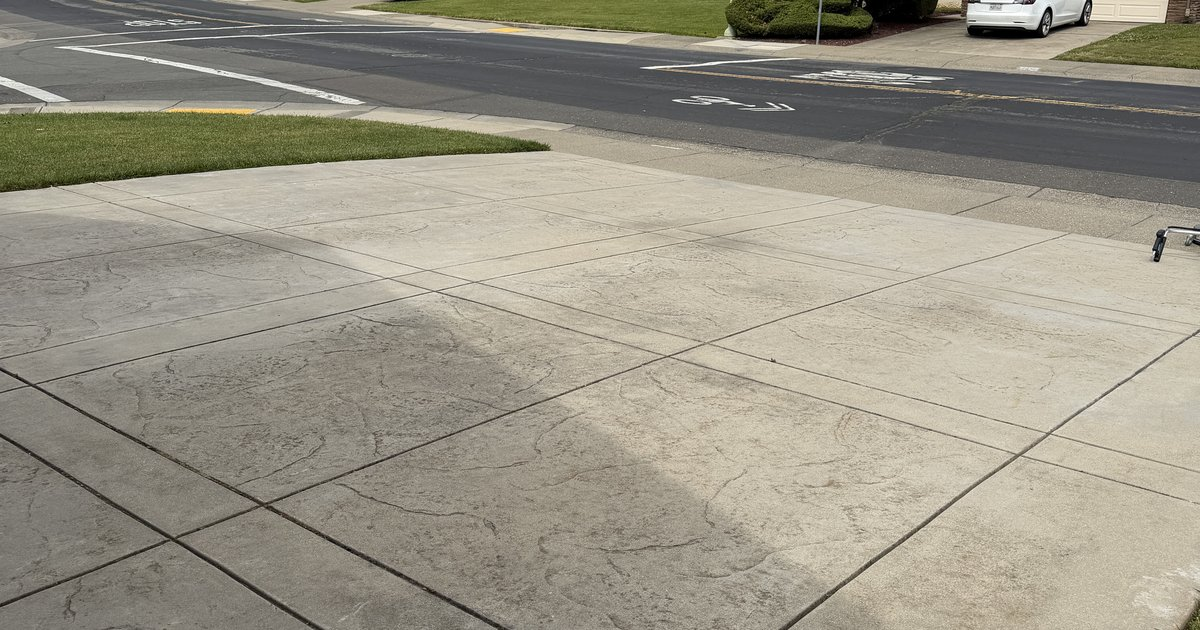
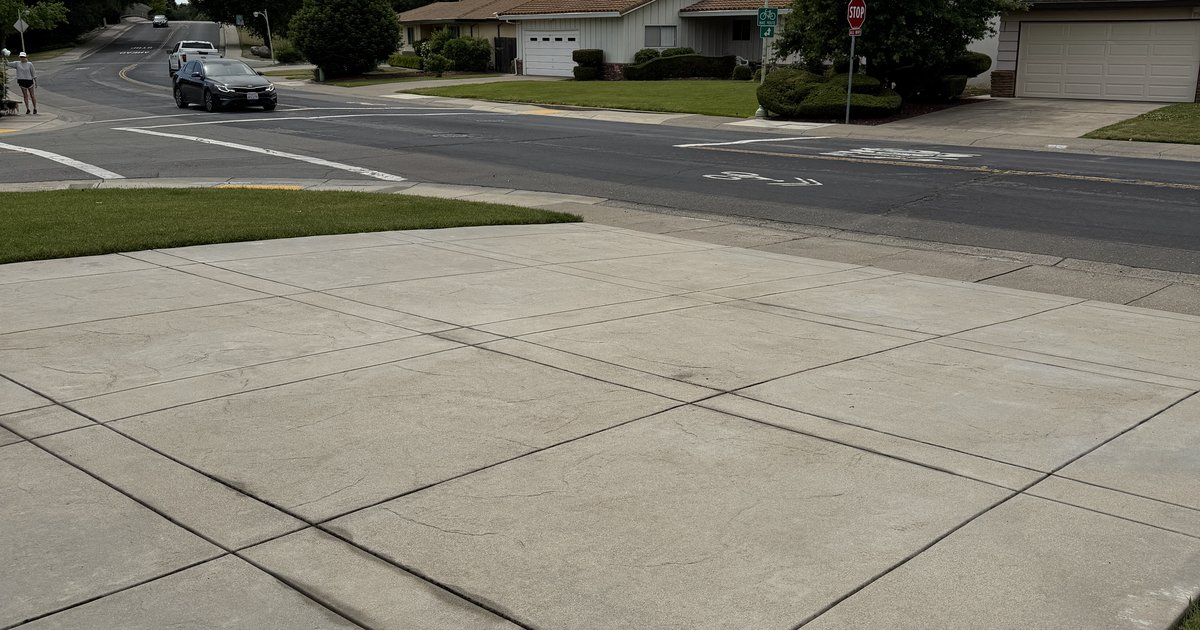
Add files via upload

diff --git a/index.html b/index.html
@@ -121,8 +121,18 @@
     .q-story-option input{accent-color:var(--teal);cursor:pointer}
     .q-story-rate{display:none}
     .hero{position:relative;min-height:100vh;display:flex;align-items:flex-end;overflow:hidden}
-    .hero-bg{position:absolute;inset:0;background:url("images/hero-driveway-clean.jpg") center center/cover no-repeat}
-    .hero-bg::after{content:'';position:absolute;inset:0;background:linear-gradient(to right,rgba(1,24,58,0.93) 0%,rgba(1,24,58,0.72) 45%,rgba(1,24,58,0.2) 100%)}
+    .hero-bg{position:absolute;inset:0;display:flex}
+    .hero-bg-before,.hero-bg-after{flex:1;background-size:cover;background-position:center;position:relative}
+    .hero-bg-before{background-image:url("images/hero-before.jpg")}
+    .hero-bg-after{background-image:url("images/hero-after.jpg")}
+    .hero-bg-before::after,.hero-bg-after::after{content:'';position:absolute;inset:0}
+    .hero-bg-before::after{background:linear-gradient(to right,rgba(1,24,58,0.85) 0%,rgba(1,24,58,0.55) 100%)}
+    .hero-bg-after::after{background:linear-gradient(to right,rgba(1,24,58,0.35) 0%,rgba(1,24,58,0.6) 100%)}
+    .hero-split-label{position:absolute;top:50%;transform:translateY(-50%);z-index:3;font-family:'Bebas Neue',sans-serif;font-size:1.15rem;letter-spacing:0.18em;padding:0.55rem 1.3rem;border-radius:30px;backdrop-filter:blur(8px)}
+    .hero-split-label.before{left:1.5rem;background:rgba(1,11,28,0.7);border:1.5px solid rgba(255,100,100,0.5);color:#ff8a8a}
+    .hero-split-label.after{right:1.5rem;background:rgba(20,182,178,0.25);border:1.5px solid rgba(20,182,178,0.6);color:var(--teal)}
+    .hero-split-divider{position:absolute;top:0;bottom:0;left:50%;width:3px;background:linear-gradient(to bottom,transparent 0%,rgba(20,182,178,0.6) 25%,rgba(20,182,178,0.9) 50%,rgba(20,182,178,0.6) 75%,transparent 100%);z-index:3;transform:translateX(-50%)}
+    @media(max-width:640px){.hero-split-label{font-size:0.78rem;padding:0.4rem 0.8rem;top:1.1rem;transform:none}.hero-split-label.before{left:1rem}.hero-split-label.after{right:1rem}}
     .hero-content{position:relative;z-index:2;padding:0 2.5rem 5.5rem;max-width:600px}
     .eyebrow{display:inline-block;font-size:0.73rem;font-weight:600;letter-spacing:0.22em;text-transform:uppercase;color:var(--teal);margin-bottom:0.9rem;border-left:3px solid var(--teal);padding-left:0.7rem}
     .hero h1{font-family:'Bebas Neue',sans-serif;font-size:clamp(4rem,9vw,7.5rem);line-height:0.92;letter-spacing:0.02em}
@@ -388,7 +398,14 @@
   <a href="#book" class="mobile-nav-link mobile-cta">Book Now</a>
 </div>
 
-<section class="hero"><div class="hero-bg"></div>
+<section class="hero">
+  <div class="hero-bg">
+    <div class="hero-bg-before"></div>
+    <div class="hero-bg-after"></div>
+  </div>
+  <div class="hero-split-divider"></div>
+  <span class="hero-split-label before">BEFORE</span>
+  <span class="hero-split-label after">AFTER</span>
   <div class="hero-content">
     <div class="eyebrow">Greater Sacramento Area</div>
     <h1>WE BLAST<br/><span class="blue">DIRT</span><br/><span class="teal">AWAY.</span></h1>
@@ -413,6 +430,38 @@
   <div class="stat-item reveal"><div class="stat-num">2 Pros</div><div class="stat-label">On Every Job</div></div>
 </div>
 
+<!-- REVIEWS -->
+<section class="reviews-section" id="reviews">
+  <div class="reviews-inner">
+    <div class="section-header reveal">
+      <div class="section-eyebrow">What Customers Say</div>
+      <h2 class="section-title">REAL <span class="hl">REVIEWS</span></h2>
+      <p style="margin-top:0.9rem;font-size:1rem;color:rgba(245,249,255,0.75)"><span style="color:#ffb648;letter-spacing:0.1em;font-size:1.1rem">★★★★★</span> &nbsp;<strong style="color:var(--teal)">5.0</strong> rating on Google · <strong>3 verified reviews</strong></p>
+    </div>
+    <div class="reviews-grid reveal">
+      <div class="review-card">
+        <div class="review-stars">★★★★★</div>
+        <p class="review-text">"Had these guys come out to my duplex last Sunday — completed the whole driveway, side yard, and RV access. Great work, driveway is so bright and clean it looks like the concrete just got poured. Thank you for the good work, looking forward to working with you in the future."</p>
+        <div class="review-author">Jonathan Jackson</div>
+        <div class="review-meta">Driveway, Side Yard &amp; RV Access · ★★★★★</div>
+      </div>
+      <div class="review-card">
+        <div class="review-stars">★★★★★</div>
+        <p class="review-text">"Excellent crew to work with — had my job done in half the time that was expected. 10 out of 10 would recommend."</p>
+        <div class="review-author">James Pallas</div>
+        <div class="review-meta">Pressure Washing · ★★★★★</div>
+      </div>
+      <div class="review-card">
+        <div class="review-stars">★★★★★</div>
+        <p class="review-text">"Amazing service and even better ownership. These guys running this business are stand-up professionals that see the job through from start to finish. Top notch service with great attention to detail. Definitely recommend Pressure Pals to anyone!"</p>
+        <div class="review-author">Cory Howell</div>
+        <div class="review-meta">Pressure Washing · ★★★★★</div>
+      </div>
+    </div>
+    <p class="reviews-cta">Rated <strong style="color:var(--teal)">5.0 ★</strong> on Google · <a href="https://g.page/r/CTuQGgcxalxCEAE" target="_blank">Read all reviews</a> or <a href="https://g.page/r/CTuQGgcxalxCEAE/review" target="_blank">leave your own</a>.</p>
+  </div>
+</section>
+
 <section id="services">
   <div class="section-header reveal"><div class="section-eyebrow">What We Clean</div><h2 class="section-title">OUR <span class="hl">SERVICES</span></h2></div>
   <div class="services-grid">
@@ -424,65 +473,6 @@
     <div class="svc-card reveal"><img loading="lazy" class="svc-img" src="images/service-gutter.jpg" alt="Gutter cleaning"/><div class="svc-body"><div class="svc-name">Gutters</div><div class="svc-price">From <strong>$1.50</strong>/linear ft</div><p class="svc-desc">Exterior gutter brightening — remove streaks and oxidation for a like-new finish.</p></div></div>
   </div>
   <p class="services-note reveal">$100 minimum · 10% off when you book 3+ services · First-time customers get cheapest service free · <a href="#quote" style="color:var(--teal);text-decoration:none;border-bottom:1px solid rgba(20,182,178,0.4)">Get your instant estimate</a></p>
-</section>
-
-<section class="ba-section" id="results">
-  <div class="ba-inner">
-    <div class="section-header reveal"><div class="section-eyebrow">The Proof</div><h2 class="section-title">BEFORE &amp; <span class="hl">AFTER</span></h2></div>
-    <div class="ba-label reveal">WALKWAYS</div>
-    <div class="ba-grid">
-      <div class="ba-card reveal"><img loading="lazy" src="images/ba-walkway-before.jpg" alt="Walkway before pressure washing"/><div class="ba-pill">Before</div></div>
-      <div class="ba-card reveal"><img loading="lazy" src="images/ba-walkway-after.jpg" alt="Walkway after pressure washing"/><div class="ba-pill after">After</div></div>
-    </div>
-    <div class="ba-label reveal" style="margin-top:2rem;">PATIOS</div>
-    <div class="ba-grid">
-      <div class="ba-card reveal"><img loading="lazy" src="images/ba-patio-before.jpg" alt="Patio before pressure washing"/><div class="ba-pill">Before</div></div>
-      <div class="ba-card reveal"><img loading="lazy" src="images/ba-patio-after.jpg" alt="Patio after pressure washing"/><div class="ba-pill after">After</div></div>
-    </div>
-    <div class="ba-label reveal" style="margin-top:2rem;">GUTTERS</div>
-    <div class="ba-grid">
-      <div class="ba-card reveal"><img loading="lazy" src="images/ba-gutter-before.jpg" alt="Gutter before pressure washing"/><div class="ba-pill">Before</div></div>
-      <div class="ba-card reveal"><img loading="lazy" src="images/ba-gutter-after.jpg" alt="Gutter after pressure washing"/><div class="ba-pill after">After</div></div>
-    </div>
-  </div>
-</section>
-
-<section id="about">
-  <div class="why-inner">
-    <div class="why-text reveal">
-      <div class="section-eyebrow">Why Pressure Pals LLC</div>
-      <h2>LOCAL PROS.<br/>REAL <span style="color:var(--teal)">RESULTS.</span></h2>
-      <p>We're your Sacramento-area neighbors — not a franchise, not a call center. When you book with Pressure Pals LLC, you get two dedicated pros who take pride in the work.</p>
-      <div class="perks">
-        <div class="perk"><div class="perk-dot"></div><div class="perk-text"><strong>Locally owned &amp; operated</strong> — we live and work in the same communities we serve.</div></div>
-        <div class="perk"><div class="perk-dot"></div><div class="perk-text"><strong>Transparent pricing</strong> — free quotes, no hidden fees, no surprises.</div></div>
-        <div class="perk"><div class="perk-dot"></div><div class="perk-text"><strong>Property-safe techniques</strong> — right pressure for every surface type.</div></div>
-        <div class="perk"><div class="perk-dot"></div><div class="perk-text"><strong>Fast turnaround</strong> — most jobs completed in a single visit.</div></div>
-      </div>
-    </div>
-    <div class="why-mosaic reveal">
-      <img loading="lazy" src="images/team-at-work.jpg" alt="Jacob from Pressure Pals cleaning a driveway"/>
-      <img loading="lazy" src="images/team-pressure-washing.jpg" alt="Pressure washing in action"/>
-      <img loading="lazy" src="images/team-surface-cleaner.jpg" alt="Surface cleaner equipment"/>
-    </div>
-  </div>
-</section>
-
-<section style="padding-top:0;">
-  <div class="section-header reveal"><div class="section-eyebrow">Our Work</div><h2 class="section-title">RECENT <span class="hl">JOBS</span></h2></div>
-  <div class="gallery-wrap">
-    <div class="gallery-grid">
-      <div class="g-item wide reveal"><img loading="lazy" src="images/gallery-baseball-wide.jpg" alt="Commercial baseball field cleaning"/></div>
-      <div class="g-item reveal"><img loading="lazy" src="images/gallery-dugout-before.jpg" alt="Dugout before"/></div>
-      <div class="g-item reveal"><img loading="lazy" src="images/gallery-dugout-after.jpg" alt="Dugout after"/></div>
-      <div class="g-item reveal"><img loading="lazy" src="images/gallery-baseball-after.jpg" alt="Baseball field after"/></div>
-      <div class="g-item reveal"><img loading="lazy" src="images/gallery-side-before.jpg" alt="Side walkway before"/></div>
-      <div class="g-item reveal"><img loading="lazy" src="images/gallery-side-after.jpg" alt="Side walkway after"/></div>
-      <div class="g-item reveal"><img loading="lazy" src="images/gallery-curb-before.jpg" alt="Curb before"/></div>
-      <div class="g-item reveal"><img loading="lazy" src="images/gallery-curb-after.jpg" alt="Curb after"/></div>
-      <div class="g-item reveal"><img loading="lazy" src="images/gallery-midclean.jpg" alt="Mid clean"/></div>
-    </div>
-  </div>
 </section>
 
 <section class="quote-section" id="quote">
@@ -564,6 +554,88 @@
   </div>
 </section>
 
+<section class="ba-section" id="results">
+  <div class="ba-inner">
+    <div class="section-header reveal"><div class="section-eyebrow">The Proof</div><h2 class="section-title">BEFORE &amp; <span class="hl">AFTER</span></h2></div>
+    <div class="ba-label reveal">WALKWAYS</div>
+    <div class="ba-grid">
+      <div class="ba-card reveal"><img loading="lazy" src="images/ba-walkway-before.jpg" alt="Walkway before pressure washing"/><div class="ba-pill">Before</div></div>
+      <div class="ba-card reveal"><img loading="lazy" src="images/ba-walkway-after.jpg" alt="Walkway after pressure washing"/><div class="ba-pill after">After</div></div>
+    </div>
+    <div class="ba-label reveal" style="margin-top:2rem;">PATIOS</div>
+    <div class="ba-grid">
+      <div class="ba-card reveal"><img loading="lazy" src="images/ba-patio-before.jpg" alt="Patio before pressure washing"/><div class="ba-pill">Before</div></div>
+      <div class="ba-card reveal"><img loading="lazy" src="images/ba-patio-after.jpg" alt="Patio after pressure washing"/><div class="ba-pill after">After</div></div>
+    </div>
+    <div class="ba-label reveal" style="margin-top:2rem;">GUTTERS</div>
+    <div class="ba-grid">
+      <div class="ba-card reveal"><img loading="lazy" src="images/ba-gutter-before.jpg" alt="Gutter before pressure washing"/><div class="ba-pill">Before</div></div>
+      <div class="ba-card reveal"><img loading="lazy" src="images/ba-gutter-after.jpg" alt="Gutter after pressure washing"/><div class="ba-pill after">After</div></div>
+    </div>
+  </div>
+</section>
+
+<section id="about">
+  <div class="why-inner">
+    <div class="why-text reveal">
+      <div class="section-eyebrow">Why Pressure Pals LLC</div>
+      <h2>LOCAL PROS.<br/>REAL <span style="color:var(--teal)">RESULTS.</span></h2>
+      <p>We're your Sacramento-area neighbors — not a franchise, not a call center. When you book with Pressure Pals LLC, you get two dedicated pros who take pride in the work.</p>
+      <div class="perks">
+        <div class="perk"><div class="perk-dot"></div><div class="perk-text"><strong>Locally owned &amp; operated</strong> — we live and work in the same communities we serve.</div></div>
+        <div class="perk"><div class="perk-dot"></div><div class="perk-text"><strong>Transparent pricing</strong> — free quotes, no hidden fees, no surprises.</div></div>
+        <div class="perk"><div class="perk-dot"></div><div class="perk-text"><strong>Property-safe techniques</strong> — right pressure for every surface type.</div></div>
+        <div class="perk"><div class="perk-dot"></div><div class="perk-text"><strong>Fast turnaround</strong> — most jobs completed in a single visit.</div></div>
+      </div>
+    </div>
+    <div class="why-mosaic reveal">
+      <img loading="lazy" src="images/team-1.jpg" alt="Pressure Pals team cleaning a driveway"/>
+      <img loading="lazy" src="images/team-2.jpg" alt="Surface cleaning in action"/>
+      <img loading="lazy" src="images/team-3.jpg" alt="Pressure washing a driveway in Sacramento"/>
+    </div>
+  </div>
+</section>
+
+<section style="padding-top:0;">
+  <div class="section-header reveal"><div class="section-eyebrow">Our Work</div><h2 class="section-title">RECENT <span class="hl">JOBS</span></h2></div>
+  <div class="gallery-wrap">
+    <div class="gallery-grid">
+      <div class="g-item wide reveal"><img loading="lazy" src="images/gallery-01.jpg" alt="Recent pressure washing job"/></div>
+      <div class="g-item reveal"><img loading="lazy" src="images/gallery-02.jpg" alt="Recent pressure washing job"/></div>
+      <div class="g-item reveal"><img loading="lazy" src="images/gallery-03.jpg" alt="Recent pressure washing job"/></div>
+      <div class="g-item reveal"><img loading="lazy" src="images/gallery-04.jpg" alt="Recent pressure washing job"/></div>
+      <div class="g-item reveal"><img loading="lazy" src="images/gallery-05.jpg" alt="Recent pressure washing job"/></div>
+      <div class="g-item reveal"><img loading="lazy" src="images/gallery-06.jpg" alt="Recent pressure washing job"/></div>
+      <div class="g-item reveal"><img loading="lazy" src="images/gallery-07.jpg" alt="Recent pressure washing job"/></div>
+      <div class="g-item reveal"><img loading="lazy" src="images/gallery-08.jpg" alt="Recent pressure washing job"/></div>
+      <div class="g-item reveal"><img loading="lazy" src="images/gallery-09.jpg" alt="Roseville baseball field"/></div>
+    </div>
+  </div>
+</section>
+
+<!-- SATISFACTION GUARANTEE SECTION -->
+<section class="guarantee-section">
+  <div class="guarantee-inner reveal">
+    <div class="guarantee-badge"><span>🛡</span> OUR SATISFACTION GUARANTEE</div>
+    <p class="guarantee-text">We stand behind every job, 100%. If anything was missed or didn't meet your expectations, we'll come back out and make it right — <strong style="color:var(--teal);">free of charge, no questions asked.</strong></p>
+    <p class="guarantee-sub">Your satisfaction is the only standard we measure ourselves by. That's the Pressure Pals promise.</p>
+  </div>
+</section>
+
+<!-- BOOKING SECTION -->
+<section class="booking-section" id="book">
+  <div class="booking-inner">
+    <div class="section-header reveal">
+      <div class="section-eyebrow">Schedule a Job</div>
+      <h2 class="section-title">BOOK YOUR <span class="hl">CLEANING</span></h2>
+      <p style="margin-top:0.8rem;font-size:0.92rem;font-weight:300;color:rgba(245,249,255,0.55);">Pick a time that works for you — we'll call to confirm the details and get you on the schedule.</p>
+    </div>
+    <div class="calendly-wrap reveal">
+      <div class="calendly-inline-widget" data-url="https://calendly.com/pressure-pals916/30min?hide_landing_page_details=1&hide_gdpr_banner=1&background_color=01183a&text_color=f5f9ff&primary_color=14b6b2" style="min-width:320px;height:700px;"></div>
+    </div>
+  </div>
+</section>
+
 <!-- WHY CLEAN SECTION -->
 <section class="why-clean-section" id="why-clean">
   <div class="why-clean-inner">
@@ -618,43 +690,6 @@
   </div>
 </section>
 
-<!-- SATISFACTION GUARANTEE SECTION -->
-<section class="guarantee-section">
-  <div class="guarantee-inner reveal">
-    <div class="guarantee-badge"><span>🛡</span> OUR SATISFACTION GUARANTEE</div>
-    <p class="guarantee-text">We stand behind every job, 100%. If anything was missed or didn't meet your expectations, we'll come back out and make it right — <strong style="color:var(--teal);">free of charge, no questions asked.</strong></p>
-    <p class="guarantee-sub">Your satisfaction is the only standard we measure ourselves by. That's the Pressure Pals promise.</p>
-  </div>
-</section>
-
-<!-- SERVICE AREA -->
-<section class="area-section" id="service-area">
-  <div class="area-inner reveal">
-    <div class="section-eyebrow">Where We Serve</div>
-    <h2 class="section-title">SERVING THE <span class="hl">GREATER SACRAMENTO AREA</span></h2>
-    <p style="margin-top:1rem;font-size:0.92rem;font-weight:300;color:rgba(245,249,255,0.6);max-width:640px;margin-left:auto;margin-right:auto;line-height:1.7;">Pressure Pals LLC provides professional pressure washing services across Sacramento and surrounding cities. Outside our area? Contact us — we may still be able to help.</p>
-    <div class="area-cities">
-      <span class="area-city">Sacramento</span>
-      <span class="area-city">Roseville</span>
-      <span class="area-city">Rocklin</span>
-      <span class="area-city">Elk Grove</span>
-      <span class="area-city">Folsom</span>
-      <span class="area-city">Citrus Heights</span>
-      <span class="area-city">Antelope</span>
-      <span class="area-city">Carmichael</span>
-      <span class="area-city">Fair Oaks</span>
-      <span class="area-city">Orangevale</span>
-      <span class="area-city">Granite Bay</span>
-      <span class="area-city">Lincoln</span>
-      <span class="area-city">Loomis</span>
-      <span class="area-city">North Highlands</span>
-      <span class="area-city">Rio Linda</span>
-      <span class="area-city">Natomas</span>
-    </div>
-    <p class="area-note">Serving the 916 &amp; 530 area codes · Free estimates · Locally owned</p>
-  </div>
-</section>
-
 <!-- FAQ -->
 <section class="faq-section" id="faq">
   <div class="faq-inner">
@@ -687,49 +722,31 @@
   </div>
 </section>
 
-<!-- REVIEWS -->
-<section class="reviews-section" id="reviews">
-  <div class="reviews-inner">
-    <div class="section-header reveal">
-      <div class="section-eyebrow">What Customers Say</div>
-      <h2 class="section-title">REAL <span class="hl">REVIEWS</span></h2>
-      <p style="margin-top:0.9rem;font-size:1rem;color:rgba(245,249,255,0.75)"><span style="color:#ffb648;letter-spacing:0.1em;font-size:1.1rem">★★★★★</span> &nbsp;<strong style="color:var(--teal)">5.0</strong> rating on Google · <strong>3 verified reviews</strong></p>
+<!-- SERVICE AREA -->
+<section class="area-section" id="service-area">
+  <div class="area-inner reveal">
+    <div class="section-eyebrow">Where We Serve</div>
+    <h2 class="section-title">SERVING THE <span class="hl">GREATER SACRAMENTO AREA</span></h2>
+    <p style="margin-top:1rem;font-size:0.92rem;font-weight:300;color:rgba(245,249,255,0.6);max-width:640px;margin-left:auto;margin-right:auto;line-height:1.7;">Pressure Pals LLC provides professional pressure washing services across Sacramento and surrounding cities. Outside our area? Contact us — we may still be able to help.</p>
+    <div class="area-cities">
+      <span class="area-city">Sacramento</span>
+      <span class="area-city">Roseville</span>
+      <span class="area-city">Rocklin</span>
+      <span class="area-city">Elk Grove</span>
+      <span class="area-city">Folsom</span>
+      <span class="area-city">Citrus Heights</span>
+      <span class="area-city">Antelope</span>
+      <span class="area-city">Carmichael</span>
+      <span class="area-city">Fair Oaks</span>
+      <span class="area-city">Orangevale</span>
+      <span class="area-city">Granite Bay</span>
+      <span class="area-city">Lincoln</span>
+      <span class="area-city">Loomis</span>
+      <span class="area-city">North Highlands</span>
+      <span class="area-city">Rio Linda</span>
+      <span class="area-city">Natomas</span>
     </div>
-    <div class="reviews-grid reveal">
-      <div class="review-card">
-        <div class="review-stars">★★★★★</div>
-        <p class="review-text">"Had these guys come out to my duplex last Sunday — completed the whole driveway, side yard, and RV access. Great work, driveway is so bright and clean it looks like the concrete just got poured. Thank you for the good work, looking forward to working with you in the future."</p>
-        <div class="review-author">Jonathan Jackson</div>
-        <div class="review-meta">Driveway, Side Yard &amp; RV Access · ★★★★★</div>
-      </div>
-      <div class="review-card">
-        <div class="review-stars">★★★★★</div>
-        <p class="review-text">"Excellent crew to work with — had my job done in half the time that was expected. 10 out of 10 would recommend."</p>
-        <div class="review-author">James Pallas</div>
-        <div class="review-meta">Pressure Washing · ★★★★★</div>
-      </div>
-      <div class="review-card">
-        <div class="review-stars">★★★★★</div>
-        <p class="review-text">"Amazing service and even better ownership. These guys running this business are stand-up professionals that see the job through from start to finish. Top notch service with great attention to detail. Definitely recommend Pressure Pals to anyone!"</p>
-        <div class="review-author">Cory Howell</div>
-        <div class="review-meta">Pressure Washing · ★★★★★</div>
-      </div>
-    </div>
-    <p class="reviews-cta">Rated <strong style="color:var(--teal)">5.0 ★</strong> on Google · <a href="https://g.page/r/CTuQGgcxalxCEAE" target="_blank">Read all reviews</a> or <a href="https://g.page/r/CTuQGgcxalxCEAE/review" target="_blank">leave your own</a>.</p>
-  </div>
-</section>
-
-<!-- BOOKING SECTION -->
-<section class="booking-section" id="book">
-  <div class="booking-inner">
-    <div class="section-header reveal">
-      <div class="section-eyebrow">Schedule a Job</div>
-      <h2 class="section-title">BOOK YOUR <span class="hl">CLEANING</span></h2>
-      <p style="margin-top:0.8rem;font-size:0.92rem;font-weight:300;color:rgba(245,249,255,0.55);">Pick a time that works for you — we'll call to confirm the details and get you on the schedule.</p>
-    </div>
-    <div class="calendly-wrap reveal">
-      <div class="calendly-inline-widget" data-url="https://calendly.com/pressure-pals916/30min?hide_landing_page_details=1&hide_gdpr_banner=1&background_color=01183a&text_color=f5f9ff&primary_color=14b6b2" style="min-width:320px;height:700px;"></div>
-    </div>
+    <p class="area-note">Serving the 916 &amp; 530 area codes · Free estimates · Locally owned</p>
   </div>
 </section>
 
